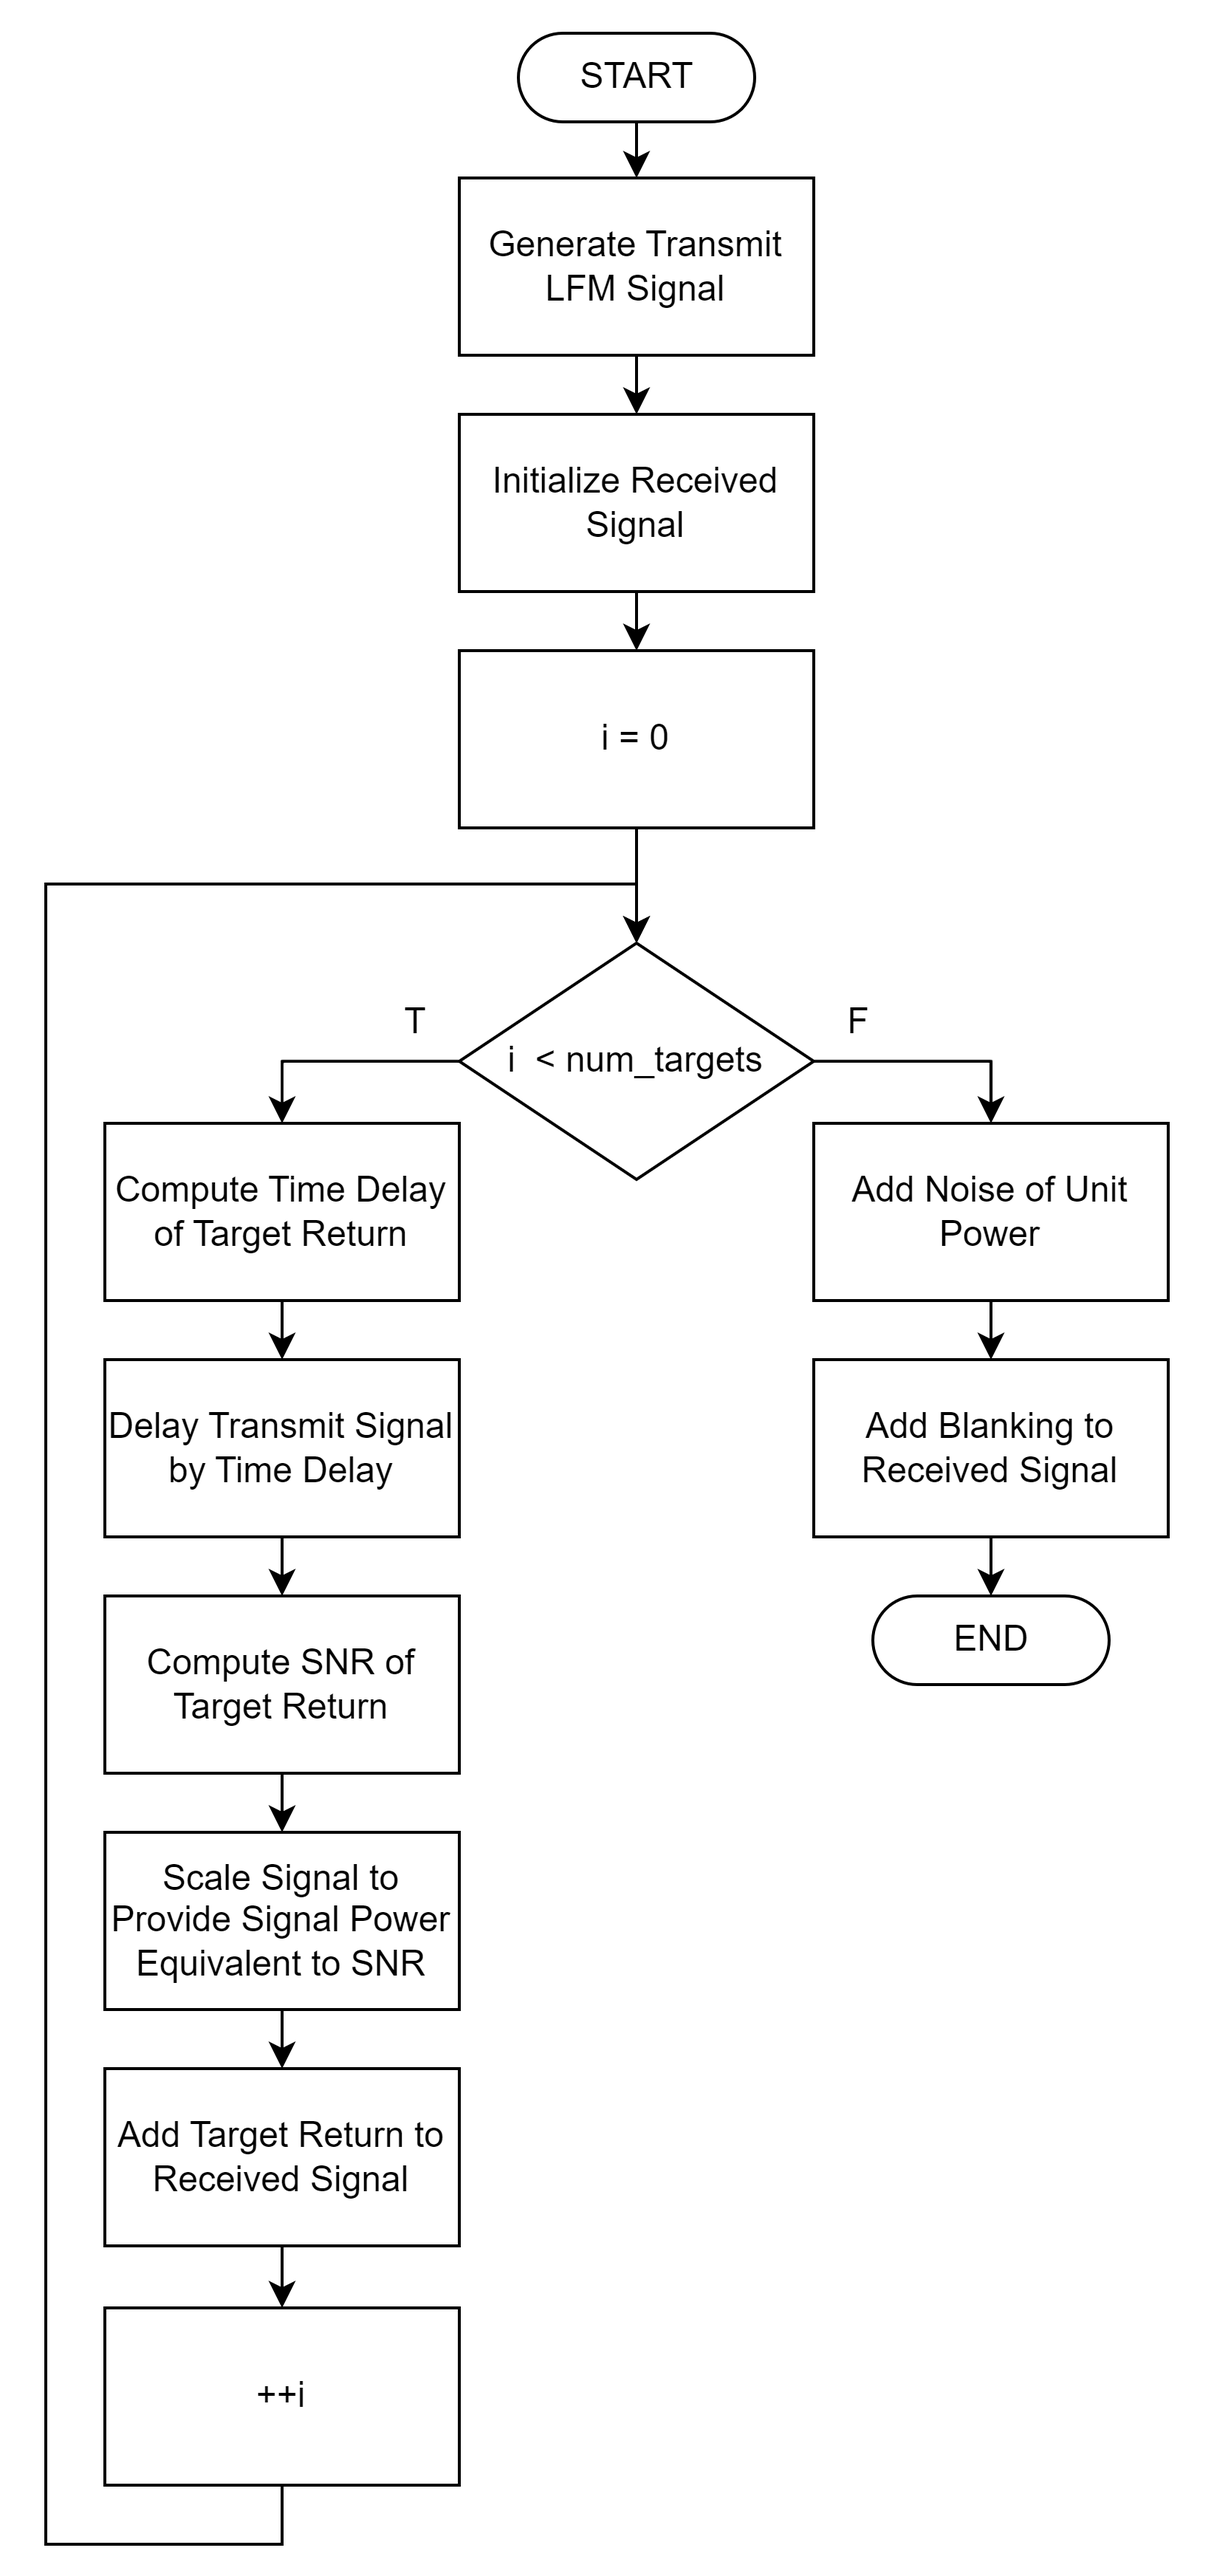
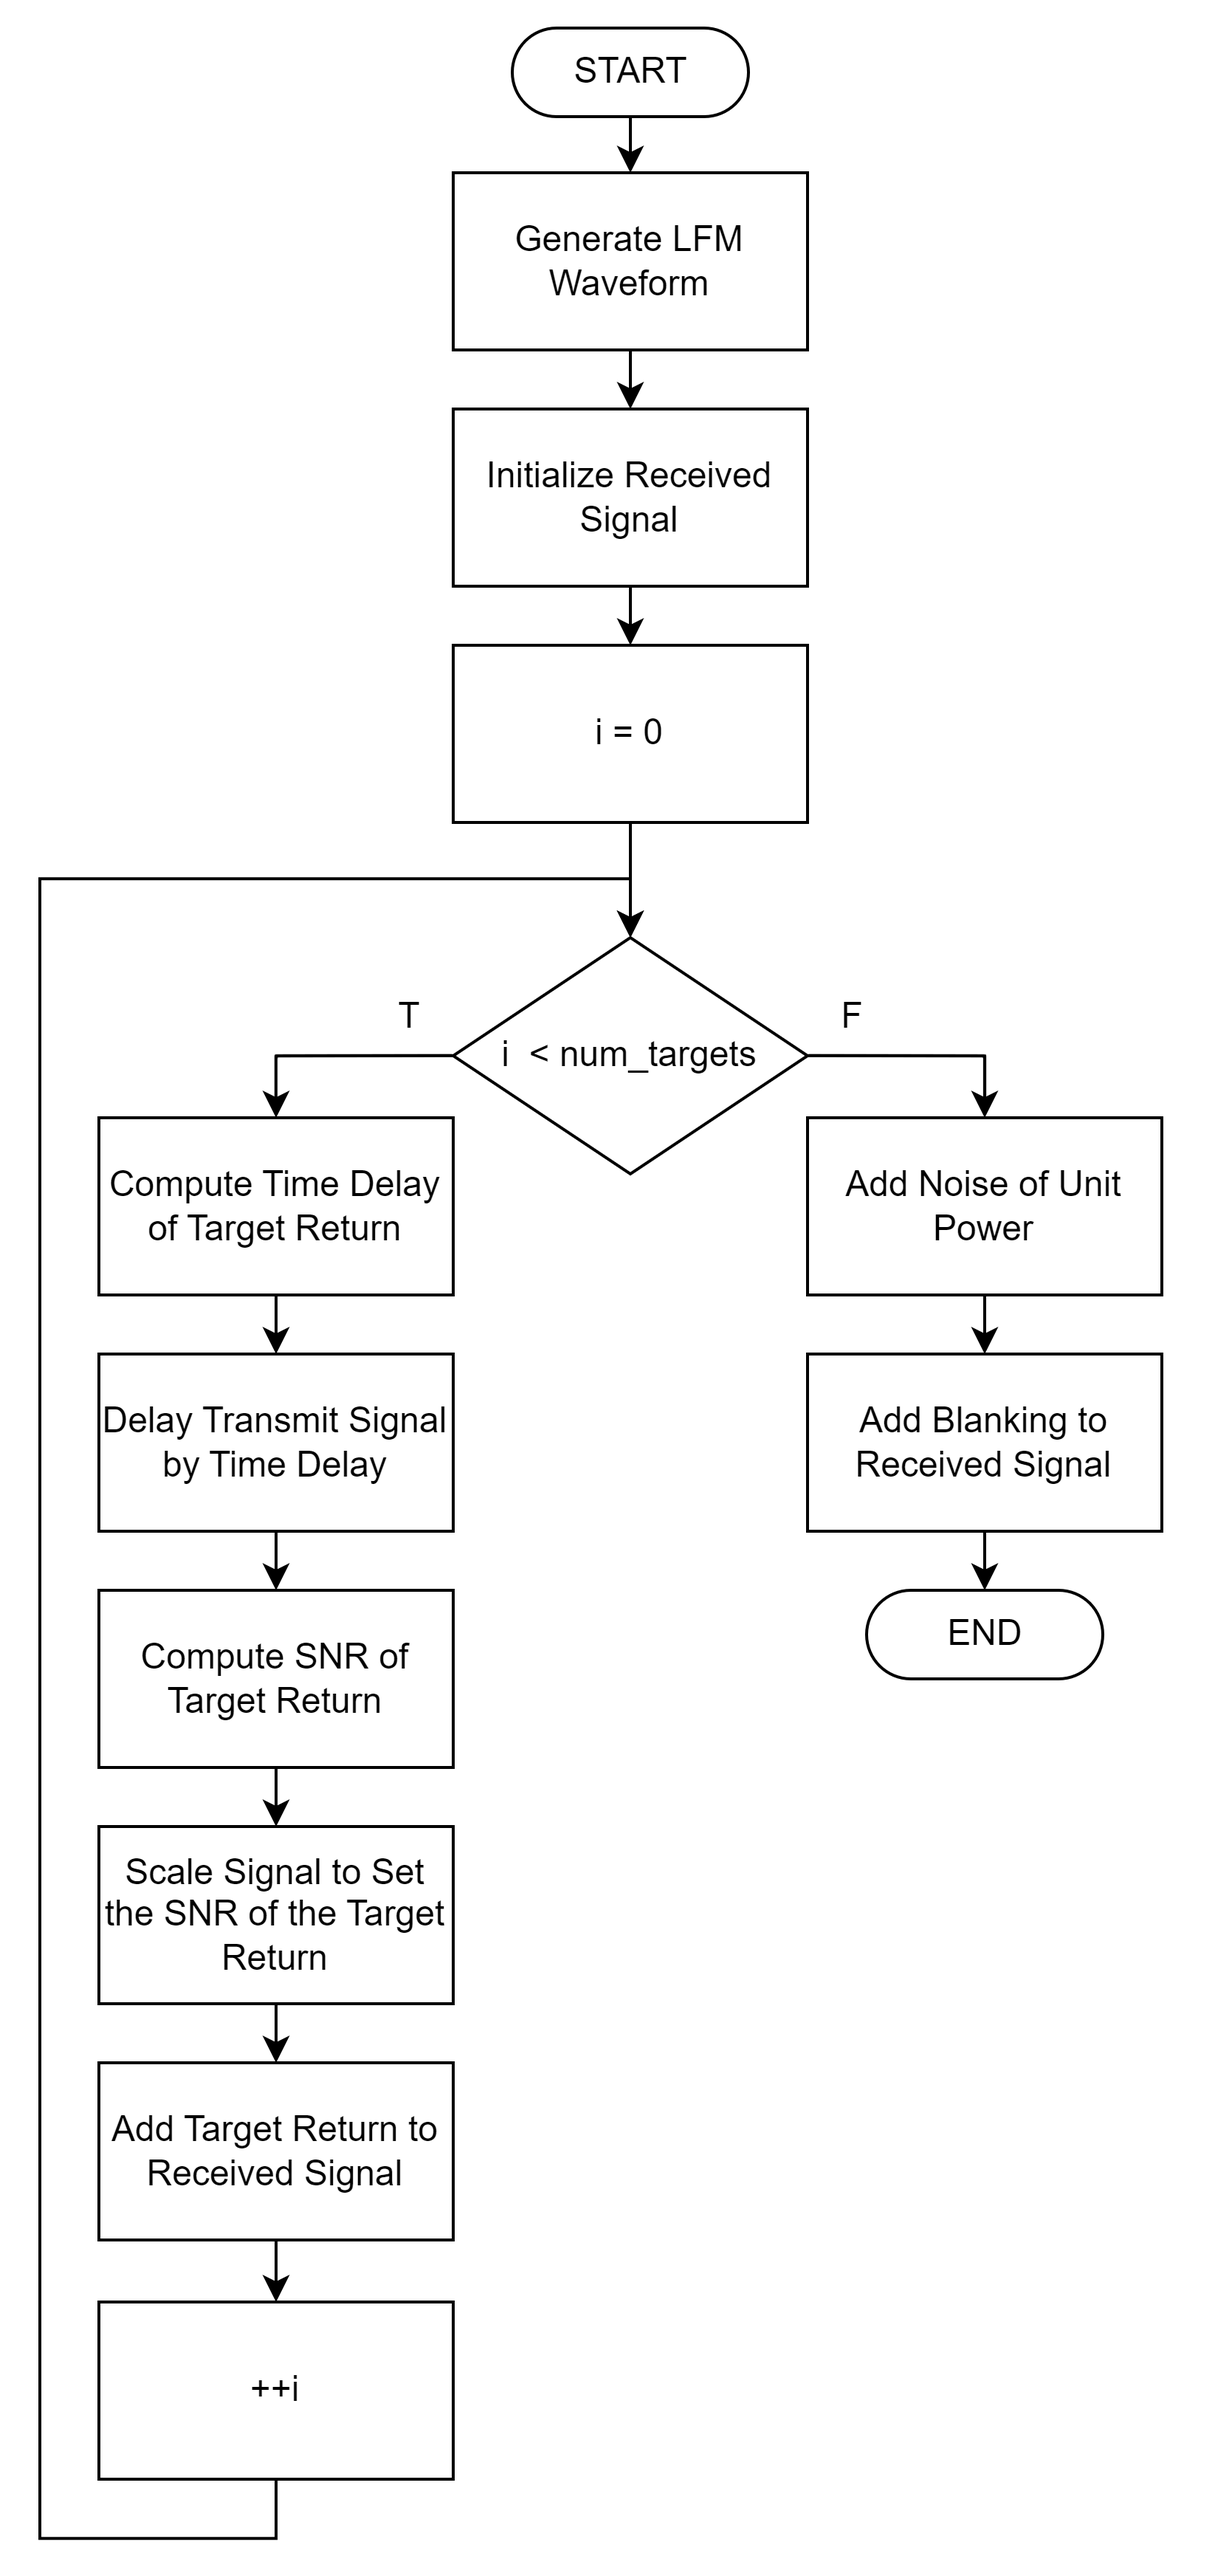
Illustrated the process of generated the received signal

diff --git a/Project1_Sowatzke.tex b/Project1_Sowatzke.tex
@@ -2,7 +2,8 @@
 \IEEEoverridecommandlockouts
 \usepackage{matlab-prettifier}
 \usepackage{cite}
-\usepackage{amsmath,amssymb,amsfonts,nccmath}
+\usepackage{amsmath,amssymb,amsfonts}
+\usepackage{nccmath}
 \usepackage{algorithmic}
 \usepackage{graphicx}
 \usepackage{textcomp}
@@ -38,6 +39,7 @@ Pulse Compression, Linear Frequency Modulated (LFM) Waveform, Matched Filter
 A linear frequency modulated (LFM) waveform is a pulse compression waveform defined according to the following equation:
 \begin{equation}
 x(t)=e^{j\pi\beta t^2/\tau}
+\label{lfm_waveform}
 \end{equation}
 where:
 \begin{fleqn}[\parindent]
@@ -85,6 +87,18 @@ Another parameter of interest, the length of the LFM pulse ($\tau$), can be comp
 \tau = PRI \cdot D = 4 {\mu}s
 \label{tau equation}
 \end{equation}
+\section{Modeling the Matched Filter Output}
+To model the matched filter response of the system, the received signal must first be generated for each of the target returns. The process of generating the received signal is illustrated in Fig. \ref{gen_rx_sig}.
+\begin{figure}[H]
+\centerline{\fbox{\includegraphics[width=0.3\textwidth]{gen_rx_sig.png}}}
+\caption{Generating the Received Signal.}
+\label{gen_rx_sig}
+\end{figure}
+Each of the target returns is a delayed and scaled version of the transmitted signal. As such, the transmitted LFM waveform must be generated as part of the workflow. This is done using equation \eqref{lfm_waveform}. Note that the transmitted signal must be padded with zeros to account for the listening period after transmission.
+%The resulting matched filter output can then be used to draw conclusions about SNR and range resolution.
+% 
+%The matched filter response of the radar system can be generated by modeling the signal from the DAC to the matched filter. modeling the radar signal from the tranmission matched filter. 
+
 %\section{Introduction}
 %Both Monte Carlo (MC) Simulations and Importance Sampling (IS) are techniques for estimating probabilities. In this document, both techniques will be used to estimate the probability that a random variable $X$ with distribution $X\sim N(1,1)$ exceeds 3.957 (i.e. $P\{X > 3.957\}$).
 %\section{Monte Carlo Simulation}
